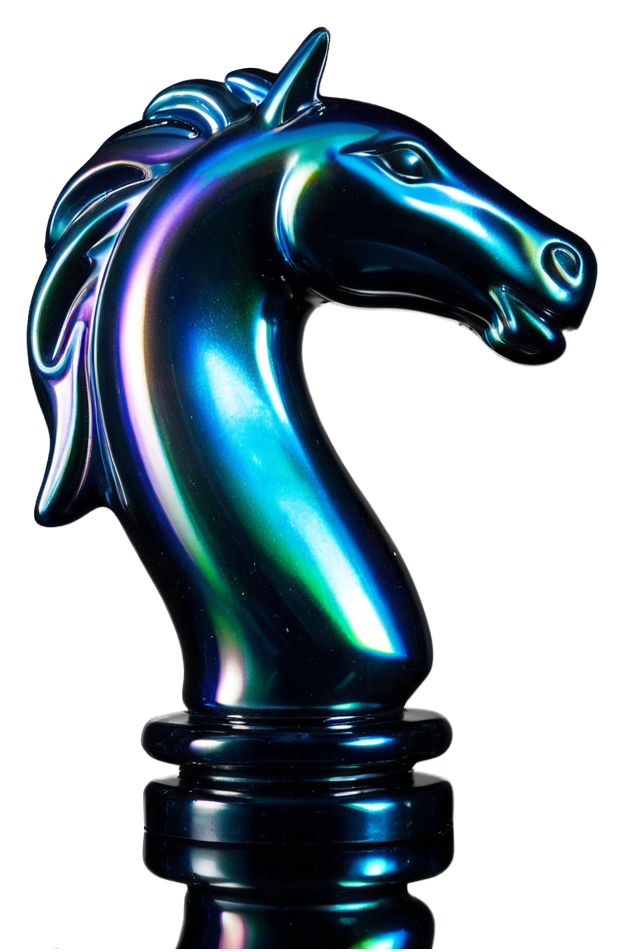
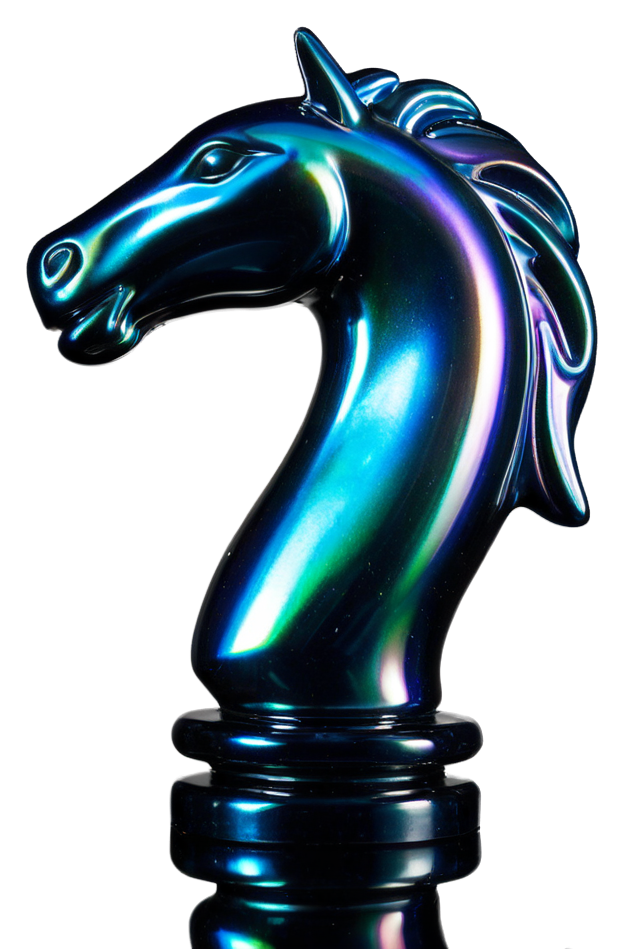
Le téléphone : cibles trop petites, barre du bas invisible, flèche sur le texte
Audit du site en ligne à 375 points de large, page par page, sonde en main.
Bonne nouvelle d'abord : aucun débordement horizontal nulle part — ni sur
« Jouer », ni sur les puzzles, l'analyse, les ouvertures, le classement,
« Apprendre » ou les deux écrans de partie. Ce qui n'allait pas tient à ce
qu'on vise du pouce, et à ce qu'on voit.

**La flèche passait sous le texte.** Les nouvelles rangées de « Jouer »
avaient une marge à droite sur le titre et rien sur la phrase : « au grand
maître » finissait sous le chevron, et « Contre quelqu'un » comme
« Carrière » étaient coupés de la même façon.

**La barre de navigation du bas** portait la couleur des mentions
secondaires sur un fond translucide : cinq pictogrammes gris pâle dont on ne
savait pas lequel était actif sans les comparer. C'est pourtant toute la
navigation sur téléphone. L'entrée courante porte désormais une pastille
d'accent sous son icône, un libellé en gras, une icône en trait épais ; les
autres montent d'un cran de contraste.

**Les cibles tactiles.** Les filtres de puzzles et les familles d'ouvertures
mesuraient 26 points de haut, le curseur de niveau en mesurait huit — soit
la hauteur de son rail. La zone touchable monte à 36 et 32 sans que la
typographie change. Et le pouce du curseur n'était dessiné nulle part :
retirer l'apparence native supprime celle du navigateur, le rail était
repeint à la main, la poignée non — on faisait glisser une barre sans voir
ce qu'on attrapait.
[…]

diff --git a/apps/web/src/components/layout/AppShell.tsx b/apps/web/src/components/layout/AppShell.tsx
@@ -444,17 +444,40 @@ function BottomBar({
           const Icone = entree.icon
           const active = pathname.startsWith(entree.href)
           return (
+            /* ── La barre du bas, enfin visible ─────────────────────────
+               Elle était en `text-faint` — la couleur des mentions
+               secondaires — sur un fond translucide : cinq pictogrammes gris
+               pâle qu'on ne distinguait ni du fond ni les uns des autres, et
+               dont on ne savait pas lequel était actif sans les comparer.
+               C'est pourtant la navigation principale sur téléphone.
+
+               L'entrée courante porte maintenant une pastille d'accent sous
+               son icône, un libellé en gras et l'icône en trait épais ; les
+               autres passent en `text-muted`, lisible sans crier. La pastille
+               fait aussi office de cible : elle épaissit la zone touchable. */
             <Link
               key={entree.href}
               href={entree.href}
               aria-current={active ? 'page' : undefined}
               className={clsx(
-                'flex min-w-0 flex-1 flex-col items-center gap-1 rounded-[var(--radius-sm)] px-1 py-1.5 transition-colors',
-                active ? 'text-accent' : 'text-faint',
+                'flex min-w-0 flex-1 flex-col items-center gap-1 rounded-[var(--radius-sm)] px-1 pb-1.5 pt-1 transition-colors',
+                active ? 'text-accent' : 'text-muted',
               )}
             >
-              <Icone size={19} strokeWidth={active ? 2.4 : 1.9} aria-hidden />
-              <span className="truncate text-[10px] font-medium leading-none">
+              <span
+                className={clsx(
+                  'grid h-7 w-12 place-items-center rounded-full transition-all',
+                  active && 'bg-accent/20 shadow-[0_0_16px_-4px_var(--accent)]',
+                )}
+              >
+                <Icone size={20} strokeWidth={active ? 2.5 : 2} aria-hidden />
+              </span>
+              <span
+                className={clsx(
+                  'truncate text-[10px] leading-none',
+                  active ? 'font-bold' : 'font-medium',
+                )}
+              >
                 {t(entree.labelKey)}
               </span>
             </Link>
@@ -471,16 +494,32 @@ function BottomBar({
           onClick={onToggleMenu}
           aria-expanded={menuOpen}
           className={clsx(
-            'flex min-w-0 flex-1 flex-col items-center gap-1 rounded-[var(--radius-sm)] px-1 py-1.5 transition-colors',
-            menuOpen ? 'text-accent' : 'text-faint',
+            'flex min-w-0 flex-1 flex-col items-center gap-1 rounded-[var(--radius-sm)] px-1 pb-1.5 pt-1 transition-colors',
+            menuOpen ? 'text-accent' : 'text-muted',
           )}
         >
-          {menuOpen ? (
-            <X size={19} strokeWidth={2.4} aria-hidden />
-          ) : (
-            <MenuIcon size={19} strokeWidth={1.9} aria-hidden />
-          )}
-          <span className="truncate text-[10px] font-medium leading-none">{t('nav.menu')}</span>
+          {/* Même traitement que les quatre autres : le menu ouvert est un
+              état, il doit se voir comme tel. */}
+          <span
+            className={clsx(
+              'grid h-7 w-12 place-items-center rounded-full transition-all',
+              menuOpen && 'bg-accent/20 shadow-[0_0_16px_-4px_var(--accent)]',
+            )}
+          >
+            {menuOpen ? (
+              <X size={20} strokeWidth={2.5} aria-hidden />
+            ) : (
+              <MenuIcon size={20} strokeWidth={2} aria-hidden />
+            )}
+          </span>
+          <span
+            className={clsx(
+              'truncate text-[10px] leading-none',
+              menuOpen ? 'font-bold' : 'font-medium',
+            )}
+          >
+            {t('nav.menu')}
+          </span>
         </button>
       </div>
     </nav>

diff --git a/apps/web/src/app/jouer/ordinateur/page.tsx b/apps/web/src/app/jouer/ordinateur/page.tsx
@@ -711,9 +711,29 @@ function SetupScreen({
         )}
 
         <div className="border-t border-line/60 px-5 py-4 [@media(max-height:820px)]:py-2.5">
-          <label htmlFor="level" className="mb-2 block text-sm font-medium">
-            Niveau de difficulté
-          </label>
+          {/* ── Qui l'on choisit, à côté du curseur ──────────────────────
+              Le portrait, le nom et l'Elo sont en tête de cette carte ; le
+              curseur, lui, est tout en bas, après le choix de l'adversaire et
+              le rappel de progression. Sur un téléphone, les deux ne tiennent
+              pas ensemble à l'écran : on fait glisser le curseur en regardant
+              un chiffre qui a disparu vers le haut, et l'on ne sait donc pas
+              qui l'on est en train de choisir — ce qui est la seule question
+              que pose ce réglage.
+
+              On répète donc l'identité ici, en petit. Masqué à partir de `lg`,
+              où la carte tient entière dans l'écran et où répéter reviendrait
+              à dire deux fois la même chose à dix centimètres d'intervalle. */}
+          <div className="mb-2 flex items-center justify-between gap-2">
+            <label htmlFor="level" className="block text-sm font-medium">
+              Niveau de difficulté
+            </label>
+            <span className="flex items-center gap-1.5 lg:hidden">
+              <PortraitAdversaire personality={personality} size={22} />
+              <span className="text-[12px] font-semibold text-ink">{personality.name.fr}</span>
+              <span className="text-[12px] tabular-nums text-accent">≈ {bot.elo} Elo</span>
+              <span className="text-[12px] text-faint">n°{bot.level}</span>
+            </span>
+          </div>
           <input
             id="level"
             type="range"
@@ -722,9 +742,20 @@ function SetupScreen({
             step={1}
             value={level}
             onChange={(event) => setLevel(Number(event.target.value))}
-            className="h-2 w-full cursor-pointer appearance-none rounded-full"
+            /* La barre reste fine, la zone touchable ne l'est plus.
+
+               Le champ faisait huit points de haut : c'est la hauteur du rail,
+               et c'était aussi toute la surface qu'on pouvait viser du pouce.
+               On lui donne trente-deux points et l'on repeint le rail au
+               centre, sans le grossir — `background-size` borne le dégradé à
+               huit points de haut, `center` le pose au milieu. */
+            className="h-8 w-full cursor-pointer appearance-none bg-transparent"
             style={{
-              background: `linear-gradient(to right, var(--accent) ${((level - 1) / (BOT_LEVELS.length - 1)) * 100}%, var(--surface-strong) ${((level - 1) / (BOT_LEVELS.length - 1)) * 100}%)`,
+              backgroundImage: `linear-gradient(to right, var(--accent) ${((level - 1) / (BOT_LEVELS.length - 1)) * 100}%, var(--surface-strong) ${((level - 1) / (BOT_LEVELS.length - 1)) * 100}%)`,
+              backgroundSize: '100% 8px',
+              backgroundPosition: 'center',
+              backgroundRepeat: 'no-repeat',
+              borderRadius: '9999px',
             }}
           />
           <div className="mt-1.5 flex justify-between text-[11px] text-faint">

diff --git a/apps/web/src/app/globals.css b/apps/web/src/app/globals.css
@@ -938,3 +938,45 @@ select option:hover {
   .animate-carriere-confetti { display: none; }
   .carriere-jauge { transition: none; }
 }
+
+/* ═══════════════════════════════════════════════════════════════════════════
+   Curseurs
+   ═══════════════════════════════════════════════════════════════════════════
+
+   Les champs `range` de l'application portent tous `appearance-none`, qui
+   retire le rail *et* le pouce du navigateur : le rail est repeint à la main
+   — un dégradé qui montre la portion parcourue —, mais le pouce, lui, n'était
+   redessiné nulle part. Selon le moteur, on obtenait donc un curseur sans
+   poignée visible : une barre qu'on peut faire glisser sans voir ce qu'on
+   attrape, et sur un téléphone sans savoir où poser le doigt.
+
+   Vingt-deux points de diamètre : c'est la taille d'un pouce posé, et elle
+   dépasse volontairement du rail de huit points — la poignée doit se voir
+   comme une pièce à part, pas comme un renflement. */
+input[type='range']::-webkit-slider-thumb {
+  -webkit-appearance: none;
+  appearance: none;
+  width: 22px;
+  height: 22px;
+  border-radius: 9999px;
+  background: var(--accent);
+  border: 2px solid var(--bg-elev);
+  box-shadow: 0 1px 5px rgb(0 0 0 / 0.4);
+  cursor: pointer;
+}
+
+input[type='range']::-moz-range-thumb {
+  width: 22px;
+  height: 22px;
+  border-radius: 9999px;
+  background: var(--accent);
+  border: 2px solid var(--bg-elev);
+  box-shadow: 0 1px 5px rgb(0 0 0 / 0.4);
+  cursor: pointer;
+}
+
+/* Firefox dessine son propre rail par-dessus le fond du champ : on l'efface,
+   le dégradé du champ fait déjà le travail. */
+input[type='range']::-moz-range-track {
+  background: transparent;
+}

diff --git a/apps/web/src/app/jouer/page.tsx b/apps/web/src/app/jouer/page.tsx
@@ -117,7 +117,11 @@ export default function PlayLobbyPage() {
           <Link
             key={href}
             href={href}
-            className="group animate-slide-up glass gradient-ring relative flex flex-row items-center gap-3.5 overflow-hidden p-3.5 transition-transform duration-300 hover:-translate-y-1 md:flex-col md:items-stretch md:gap-0 md:p-6"
+            /* `pr-11` sous `md` : la flèche est posée en absolu contre le bord
+               droit, et la phrase lui passait dessous — « au grand maître »
+               finissait sous le chevron. Le titre avait son `pr-6`, pas le
+               reste du texte. */
+            className="group animate-slide-up glass gradient-ring relative flex flex-row items-center gap-3.5 overflow-hidden p-3.5 pr-11 transition-transform duration-300 hover:-translate-y-1 md:flex-col md:items-stretch md:gap-0 md:p-6"
             style={{ animationDelay: `${index * 70}ms` }}
           >
             <span

diff --git a/apps/web/src/app/puzzles/page.tsx b/apps/web/src/app/puzzles/page.tsx
@@ -572,8 +572,12 @@ export default function PuzzlesPage() {
             key={entry.id}
             type="button"
             onClick={() => setTheme(entry.id)}
+            /* `min-h-9` : les pastilles mesuraient 26 points de haut, soit
+               presque moitié moins que le pouce qui les vise. On ne les
+               agrandit pas en typographie — elles resteraient discrètes, ce
+               qui est leur rôle — mais en zone touchable. */
             className={clsx(
-              'rounded-full border px-2.5 py-1 text-xs font-medium transition-colors',
+              'inline-flex min-h-9 items-center rounded-full border px-3 py-1 text-xs font-medium transition-colors',
               theme === entry.id
                 ? 'border-accent bg-accent/15 text-ink'
                 : 'border-line text-muted hover:bg-surface-hover',

diff --git a/apps/web/src/app/ouvertures/page.tsx b/apps/web/src/app/ouvertures/page.tsx
@@ -352,7 +352,9 @@ export default function OpeningsPage() {
                   }}
                   title={entry.description.fr}
                   className={clsx(
-                    'rounded-full border px-2.5 py-1 text-xs font-medium transition-colors',
+                    // 26 points de haut ne se visent pas au pouce : la zone
+                    // touchable monte à 36 sans changer la typographie.
+                    'inline-flex min-h-9 items-center rounded-full border px-3 py-1 text-xs font-medium transition-colors',
                     volume === entry.id
                       ? 'border-accent bg-accent/15 text-ink'
                       : 'border-line text-muted hover:bg-surface-hover',
